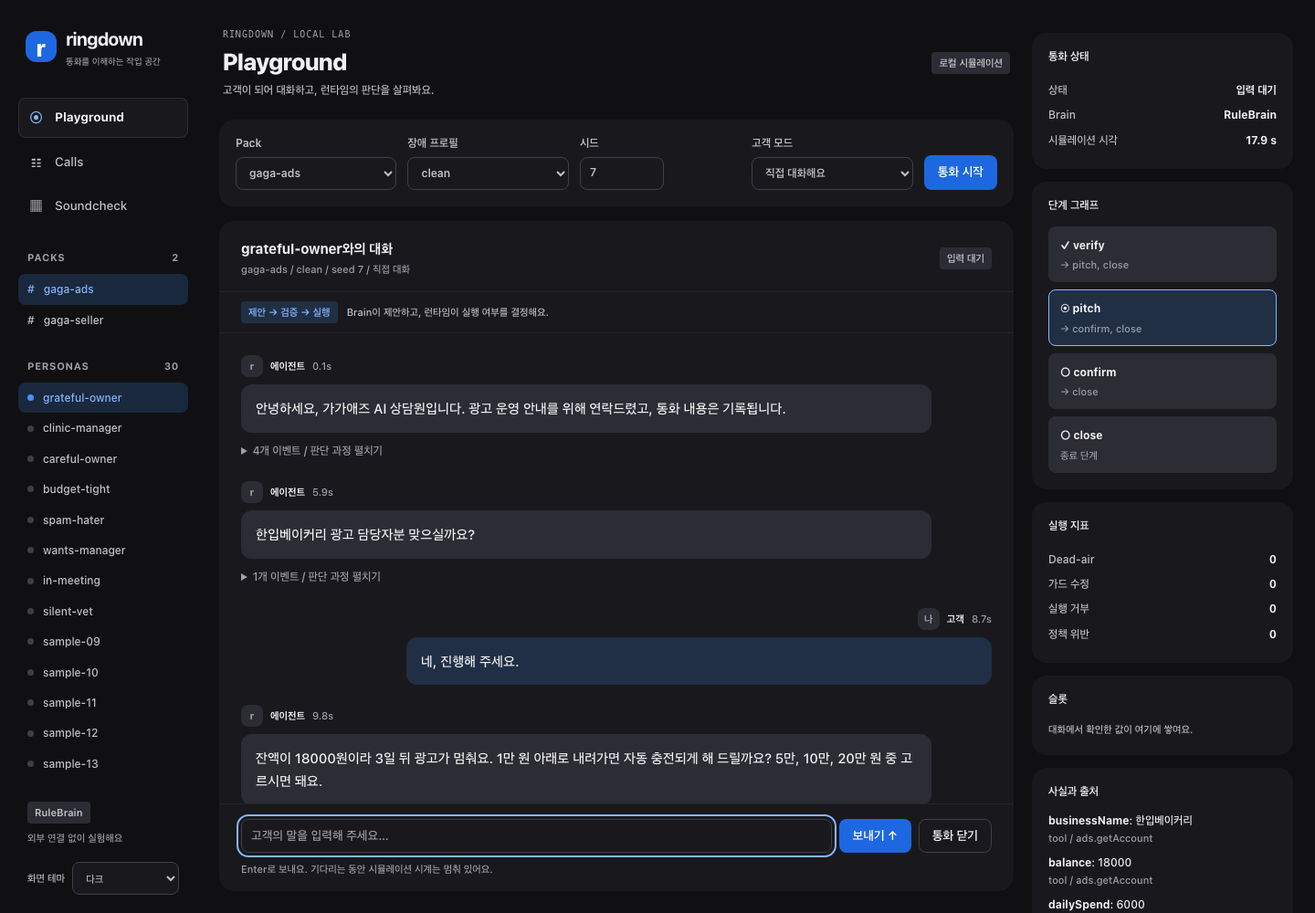
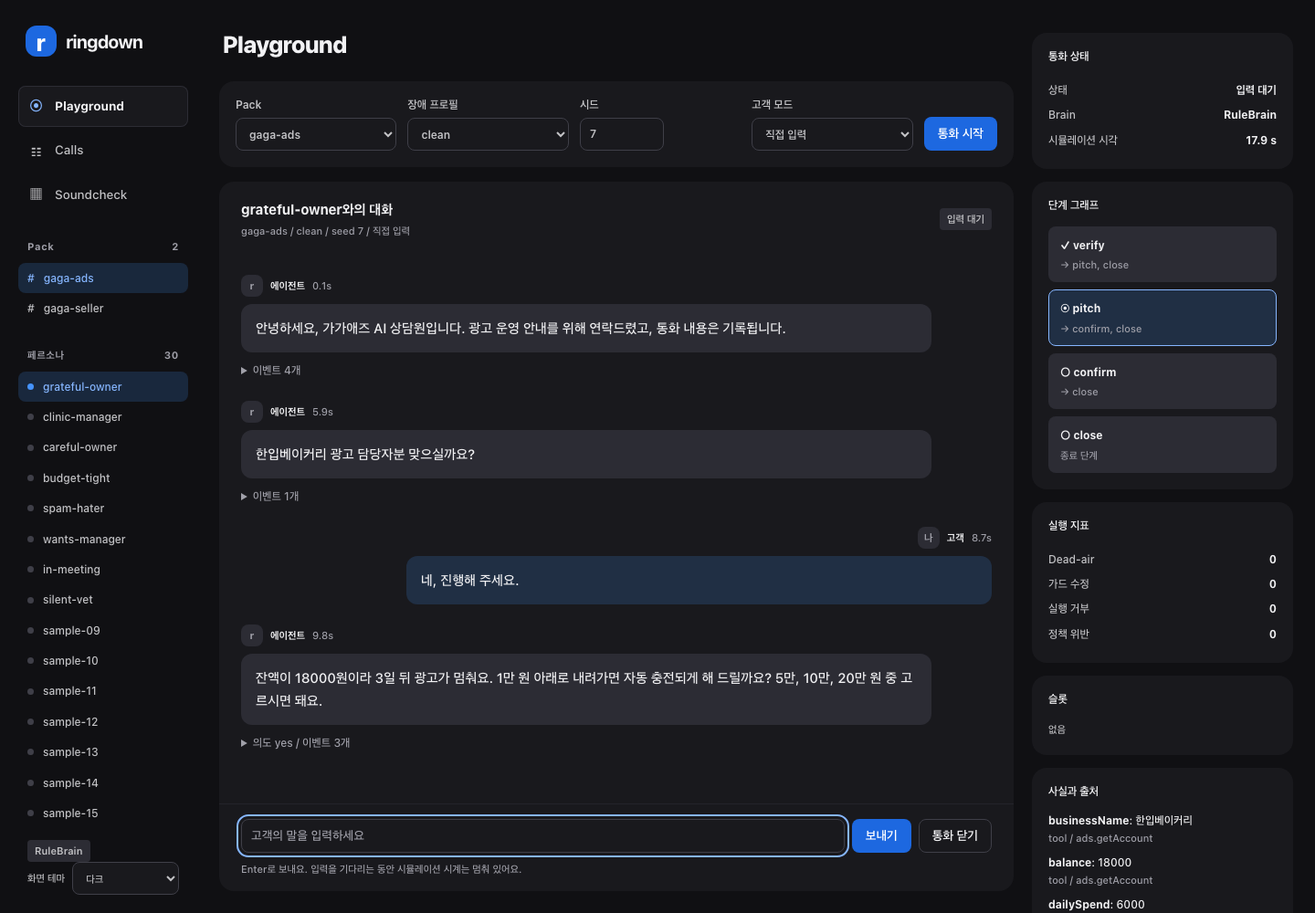
chore: Playground UI 문구·장식 정리
태그라인, eyebrow, 원칙 배너, 안내 카드, 장식 기호를 빼고 빈 상태와 도움말은 사실만 남긴다.

Closes #14

diff --git a/web/render.js b/web/render.js
@@ -6,34 +6,32 @@ const kv = (k, v) => `<div class="kv"><span>${esc(k)}</span><b>${esc(v)}</b></di
 const section = (title, content) => `<section class="card rail-section"><h2>${esc(title)}</h2>${content}</section>`;
 
 export function messages(call, pack) {
-  if (!call.state?.transcript.length) return '<div class="empty"><h2>통화를 준비하고 있어요</h2><p>사전 조회와 고지부터 시작해요.</p></div>';
+  if (!call.state?.transcript.length) return '<div class="empty"><p>연결 중이에요.</p></div>';
   return call.state.transcript.map((turn, i) => `<article class="msg ${turn.role === 'user' ? 'user' : 'agent'}"><div class="meta"><span class="av">${turn.role === 'user' ? '나' : 'r'}</span><strong>${turn.role === 'user' ? '고객' : '에이전트'}</strong><span>${(turn.startedAt / 1000).toFixed(1)}s</span>${turn.interrupted ? '<span class="badge">끼어들기</span>' : ''}</div><div class="bubble">${esc(turn.role === 'agent' ? turn.heard : turn.text)}</div>${turn.role === 'agent' ? turnTrace(turn, i, call, pack) : ''}</article>`).join('') + (call.status === 'complete' ? `<div class="meta">통화를 마쳤어요 — ${esc(outcomeLabel(call.state.outcome))}</div>` : '');
 }
 export function statePanel(call, pack) {
-  if (!pack) return section('통화 상태', '<p>Pack을 불러오고 있어요.</p>');
+  if (!pack) return section('통화 상태', '<p>불러오는 중이에요.</p>');
   const s = call?.state;
   const visited = new Set(s?.transitions.flatMap(t => [t.from, t.to]) ?? []);
   return section('통화 상태', kv('상태', call ? statusLabel(call.status) : '준비') + kv('Brain', 'RuleBrain') + kv('시뮬레이션 시각', s ? `${(s.at / 1000).toFixed(1)} s` : '—') + (s?.outcome ? kv('결과', outcomeLabel(s.outcome)) : '')) +
     section('단계 그래프', `<ol class="stage-graph">${pack.stages.map(stage => `<li class="stage-node ${stage.id === s?.stage ? 'active' : ''}"><strong>${stage.id === s?.stage ? '◉' : visited.has(stage.id) ? '✓' : '○'} ${esc(stage.id)}</strong><small>${stage.next.length ? `→ ${stage.next.map(esc).join(', ')}` : '종료 단계'}</small></li>`).join('')}</ol>`) +
     section('실행 지표', kv('Dead-air', s?.metrics.deadAir ?? 0) + kv('가드 수정', s?.metrics.outputGuardHits ?? 0) + kv('실행 거부', s?.metrics.controlRejections ?? 0) + kv('정책 위반', s?.metrics.policyViolations ?? 0)) +
-    section('슬롯', s && Object.keys(s.slots).length ? Object.entries(s.slots).map(([k, v]) => kv(k, `${v.value} (turn ${v.turn})`)).join('') : '<p>대화에서 확인한 값이 여기에 쌓여요.</p>') +
-    section('사실과 출처', s?.facts.length ? s.facts.map(f => `<div class="fact"><b>${esc(f.key)}</b>: ${esc(f.value)}<small>${esc(f.source.kind)} / ${esc(f.source.tool ?? f.source.chunkId ?? 'target')}</small></div>`).join('') : '<p>업무 조회·지식 검색 결과를 기다려요.</p>') +
-    section('Jack / 차단기', s ? Object.entries(s.jacks).map(([id, j]) => `<div class="fact"><b>${esc(id)}</b>${kv('회로', j.state)}${kv('연속 실패', j.failures)}${j.openUntil ? kv('다음 탐침 시각', ms(j.openUntil)) : ''}${j.probeDue ? '<small>다음 호출에서 반열림 탐침을 보내요.</small>' : ''}</div>`).join('') : '<p>통화마다 독립된 차단기를 사용해요.</p>') +
-    section('후속 작업', s?.pending.length ? s.pending.map(p => `<p>${esc(p.kind)} ${esc(p.tool ?? p.target ?? '')}</p>`).join('') : '<p>등록된 후속 작업이 없어요.</p>');
+    section('슬롯', s && Object.keys(s.slots).length ? Object.entries(s.slots).map(([k, v]) => kv(k, `${v.value} (turn ${v.turn})`)).join('') : '<p>없음</p>') +
+    section('사실과 출처', s?.facts.length ? s.facts.map(f => `<div class="fact"><b>${esc(f.key)}</b>: ${esc(f.value)}<small>${esc(f.source.kind)} / ${esc(f.source.tool ?? f.source.chunkId ?? 'target')}</small></div>`).join('') : '<p>없음</p>') +
+    section('Jack / 차단기', s ? Object.entries(s.jacks).map(([id, j]) => `<div class="fact"><b>${esc(id)}</b>${kv('회로', j.state)}${kv('연속 실패', j.failures)}${j.openUntil ? kv('다음 탐침 시각', ms(j.openUntil)) : ''}${j.probeDue ? '<small>다음 호출이 탐침이에요.</small>' : ''}</div>`).join('') : '<p>없음</p>') +
+    section('후속 작업', s?.pending.length ? s.pending.map(p => `<p>${esc(p.kind)} ${esc(p.tool ?? p.target ?? '')}</p>`).join('') : '<p>없음</p>');
 }
 const value = (metric, name) => metric.value === null ? '관측 없음' : metric.ci95 ? `${(metric.value * 100).toFixed(1)}%` : name === 'turn_latency_p95' ? ms(metric.value) : metric.value;
-const interval = metric => metric.ci95 ? `Wilson 95% CI ${(metric.ci95[0] * 100).toFixed(1)}–${(metric.ci95[1] * 100).toFixed(1)}%` : 'CI 없음 (합계·p95 또는 관측 없음)';
+const interval = metric => metric.ci95 ? `Wilson 95% CI ${(metric.ci95[0] * 100).toFixed(1)}–${(metric.ci95[1] * 100).toFixed(1)}%` : '—';
 export function reportPanel(report) {
-  return section('실험 조건', kv('Pack', report.pack) + kv('Brain', report.brain) + kv('페르소나', report.matrix.personas) + kv('통화', report.matrix.calls) + kv('시드', report.seeds.join(', '))) +
-    section('결과를 읽는 방법', '<p>게이트는 점추정 값으로 판정해요. 비율에는 Wilson 95% 신뢰구간을 함께 표시해요.</p><p>표본이 작으면 구간이 넓어요. 합계와 p95에는 신뢰구간을 만들지 않아요.</p>') +
-    section('시뮬레이션의 범위', '<p>페르소나는 단계와 선택지를 아는 테스트 장치예요. 이 결과는 런타임 견고성의 증거이며 실제 고객 대화 품질을 뜻하지 않아요.</p><p>차단기와 업무 상태는 통화별로 독립적이에요.</p>');
+  return section('실험 조건', kv('Pack', report.pack) + kv('Brain', report.brain) + kv('페르소나', report.matrix.personas) + kv('통화', report.matrix.calls) + kv('시드', report.seeds.join(', ')));
 }
 export function reportView(report) {
   const personas = [...new Set(report.calls.map(c => c.persona))];
-  return `<div class="card report-head"><div><h2>Soundcheck 결과</h2><p>${esc(report.pack)} / ${report.matrix.calls}통화 / RuleBrain</p></div><span class="badge ${report.pass ? '' : 'fail'}">${report.pass ? '✓ 모든 게이트 통과' : '⊘ 게이트 미달'}</span></div>
+  return `<div class="card report-head"><div><h2>결과</h2><p>${esc(report.pack)} / ${report.matrix.calls}통화 / RuleBrain</p></div><span class="badge ${report.pass ? '' : 'fail'}">${report.pass ? '게이트 통과' : '게이트 미달'}</span></div>
     <div class="metric-grid">${['goal_rate', 'degraded_survival', 'turn_latency_p95', 'policy_violations'].map(name => `<div class="card metric"><span>${labels[name]}</span><strong>${value(report.metrics[name], name)}</strong><small>${interval(report.metrics[name])}</small><small>n = ${report.metrics[name].n}</small></div>`).join('')}</div>
-    <section class="card report-section"><h2>게이트</h2><p>설정된 합격선을 점추정으로 검사해요.</p><div class="gates">${report.gates.map(g => `<span class="badge ${g.pass ? '' : 'fail'}">${g.pass ? '✓' : '⊘'} ${esc(labels[g.metric] ?? g.metric)} ${esc(g.op)} ${g.threshold} (실제 ${g.value?.toFixed(3) ?? '관측 없음'})</span>`).join('')}</div></section>
-    <section class="card report-section"><h2>페르소나 × 장애</h2><p>숫자는 목표 성공률이에요. 칸을 누르면 시드별 통화를 열 수 있어요.</p><div class="table-wrap"><table><thead><tr><th scope="col">페르소나</th>${report.matrix.faults.map(f => `<th scope="col">${esc(f)}</th>`).join('')}</tr></thead><tbody>${personas.map(p => `<tr><th scope="row">${esc(p)}</th>${report.matrix.faults.map(f => {
+    <section class="card report-section"><h2>게이트</h2><div class="gates">${report.gates.map(g => `<span class="badge ${g.pass ? '' : 'fail'}">${esc(labels[g.metric] ?? g.metric)} ${esc(g.op)} ${g.threshold} (실제 ${g.value?.toFixed(3) ?? '관측 없음'})</span>`).join('')}</div></section>
+    <section class="card report-section"><h2>페르소나 × 장애</h2><p>목표 성공률. 칸을 누르면 해당 통화를 열어요.</p><div class="table-wrap"><table><thead><tr><th scope="col">페르소나</th>${report.matrix.faults.map(f => `<th scope="col">${esc(f)}</th>`).join('')}</tr></thead><tbody>${personas.map(p => `<tr><th scope="row">${esc(p)}</th>${report.matrix.faults.map(f => {
       const calls = report.calls.filter(c => c.persona === p && c.fault === f);
       const percent = Math.round(100 * calls.filter(c => c.outcome === 'success').length / calls.length);
       return `<td><button class="heat ${percent === 100 ? 'high' : percent ? 'mid' : ''}" data-cell-persona="${esc(p)}" data-cell-fault="${esc(f)}" aria-label="${esc(p)}, ${esc(f)}, 성공 ${percent}%, ${calls.length}통화 열기">${percent}%</button></td>`;

diff --git a/web/index.html b/web/index.html
@@ -4,7 +4,7 @@
   <meta charset="utf-8">
   <meta name="viewport" content="width=device-width, initial-scale=1">
   <meta name="color-scheme" content="light dark">
-  <title>Ringdown — Playground</title>
+  <title>Ringdown</title>
   <link rel="icon" href="data:,">
   <link rel="stylesheet" href="/style.css">
   <script type="module" src="/app.js"></script>
@@ -12,22 +12,22 @@
 <body>
 <div id="app">
   <aside id="sidebar" aria-label="탐색">
-    <div class="ws"><span class="mark">r</span><div><strong>ringdown</strong><small>통화를 이해하는 작업 공간</small></div></div>
+    <div class="ws"><span class="mark">r</span><strong>ringdown</strong></div>
     <nav class="nav" aria-label="화면">
       <button class="nav-item on" data-view="playground"><span class="nav-icon">◉</span>Playground</button>
       <button class="nav-item" data-view="calls"><span class="nav-icon">☷</span>Calls</button>
       <button class="nav-item" data-view="soundcheck"><span class="nav-icon">▦</span>Soundcheck</button>
     </nav>
-    <div class="section-head">PACKS <span id="pack-count"></span></div>
+    <div class="section-head">Pack <span id="pack-count"></span></div>
     <div id="packs"></div>
-    <div class="section-head">PERSONAS <span id="persona-count"></span></div>
+    <div class="section-head">페르소나 <span id="persona-count"></span></div>
     <div id="personas" class="side-list"></div>
-    <footer class="side-footer"><span class="badge">RuleBrain</span><p>외부 연결 없이 실험해요</p>
+    <footer class="side-footer"><span class="badge">RuleBrain</span>
       <label class="theme-field">화면 테마<select id="theme" aria-label="화면 테마"><option value="">시스템</option><option value="light">라이트</option><option value="dark">다크</option></select></label>
     </footer>
   </aside>
   <main id="main">
-    <header class="ch-head"><div><div class="eyebrow">RINGDOWN / LOCAL LAB</div><h1 id="page-title">Playground</h1><p id="page-description">고객이 되어 대화하고, 런타임의 판단을 살펴봐요.</p></div><span class="badge">로컬 시뮬레이션</span></header>
+    <header class="ch-head"><h1 id="page-title">Playground</h1></header>
     <div id="notice" role="alert" hidden></div>
     <section id="view-playground" class="view">
       <form id="call-form" class="config card">
@@ -35,18 +35,17 @@
         <label class="field mobile-persona">페르소나<select id="persona"></select></label>
         <label class="field">장애 프로필<select id="fault"></select></label>
         <label class="field">시드<input id="seed" type="number" value="7" min="-2147483648" max="2147483647" required></label>
-        <label class="field">고객 모드<select id="mode"><option value="auto">페르소나 자동</option><option value="human">직접 대화해요</option></select></label>
+        <label class="field">고객 모드<select id="mode"><option value="auto">페르소나 자동</option><option value="human">직접 입력</option></select></label>
         <button class="btn primary" id="start">통화 시작</button>
       </form>
     </section>
     <section id="view-calls" class="view" hidden>
-      <div class="card call-picker"><label class="field">통화 기록<select id="call-history"><option value="">통화를 선택해 주세요</option></select></label><button class="btn" id="refresh-calls">새로고침</button><small>최근 100개를 메모리에 보관해요.</small></div>
+      <div class="card call-picker"><label class="field">통화 기록<select id="call-history"><option value="">통화를 선택해 주세요</option></select></label><button class="btn" id="refresh-calls">새로고침</button><small>최근 100건. 서버를 끄면 사라져요.</small></div>
     </section>
     <section id="conversation" class="card conversation" aria-label="대화">
-      <header class="chat-head"><div><strong id="conversation-title">대화를 시작해 볼까요?</strong><p id="conversation-subtitle">왼쪽에서 고객을 고르고 통화를 시작해 주세요.</p></div><span id="call-status" class="badge">준비</span></header>
-      <div class="principle"><span class="badge accent">제안 → 검증 → 실행</span><span>Brain이 제안하고, 런타임이 실행 여부를 결정해요.</span></div>
-      <div id="messages" class="messages"><div class="empty"><span class="empty-mark">↗</span><h2>작은 실험으로 통화를 이해해요</h2><p>자동 대화를 돌려 보거나 직접 고객이 되어 보세요.<br>각 응답 아래에서 제안과 실행 결과를 펼쳐 볼 수 있어요.</p></div></div>
-      <form id="composer" class="composer"><label class="sr-only" for="say">고객 메시지</label><input id="say" placeholder="직접 대화 모드에서 고객의 말을 입력해요" maxlength="2000" autocomplete="off" disabled required><button class="btn primary" id="send" disabled>보내기 ↑</button><button type="button" class="btn" id="stop" hidden>통화 닫기</button><small id="composer-help">입력 대기 시간은 시뮬레이션 시계에 포함하지 않아요.</small></form>
+      <header class="chat-head"><div><strong id="conversation-title">새 통화</strong><p id="conversation-subtitle"></p></div><span id="call-status" class="badge">준비</span></header>
+            <div id="messages" class="messages"><div class="empty"><p>아직 통화가 없어요. 위에서 조건을 고르고 통화를 시작하세요.</p></div></div>
+      <form id="composer" class="composer"><label class="sr-only" for="say">고객 메시지</label><input id="say" placeholder="직접 입력 모드에서 고객의 말을 입력해요" maxlength="2000" autocomplete="off" disabled required><button class="btn primary" id="send" disabled>보내기</button><button type="button" class="btn" id="stop" hidden>통화 닫기</button><small id="composer-help"></small></form>
     </section>
     <section id="view-soundcheck" class="view dashboard" hidden>
       <form id="matrix-form" class="config card">
@@ -54,11 +53,11 @@
         <label class="field">시드 (최대 3개)<input id="matrix-seeds" value="7" required placeholder="예: 1, 7, 42"></label>
         <button class="btn primary" id="run-matrix">매트릭스 실행</button>
       </form>
-      <div id="report"><div class="card empty"><span class="empty-mark">▦</span><h2>장애가 있어도 통화는 이어질까요?</h2><p>선택한 Pack의 모든 페르소나를 같은 조건으로 비교해요.<br>기본값은 clean / slow, 시드 7이에요.</p></div></div>
+      <div id="report"><div class="card empty"><p>아직 실행한 매트릭스가 없어요. 선택한 Pack의 페르소나 전원을 고른 장애 조건으로 돌려요.</p></div></div>
     </section>
   </main>
   <aside id="rail" class="rail" aria-label="통화 상태"><div id="state"></div></aside>
 </div>
-<dialog id="cell-dialog"><header><h2>통화 선택</h2><button class="btn" id="close-dialog">닫기</button></header><p>같은 칸의 시드별 통화를 살펴봐요.</p><div id="cell-calls"></div></dialog>
+<dialog id="cell-dialog"><header><h2>통화 선택</h2><button class="btn" id="close-dialog">닫기</button></header><div id="cell-calls"></div></dialog>
 </body>
 </html>

diff --git a/web/style.css b/web/style.css
@@ -102,7 +102,6 @@ pre { white-space: pre-wrap; margin: 8px 0; padding: 12px; background: var(--col
 #sidebar { display: flex; flex-direction: column; overflow: auto; padding: 28px 14px 20px 20px; }
 .ws { display: flex; align-items: center; gap: 10px; margin: 0 8px 32px; }
 .ws strong { font-size: var(--fs-xl); letter-spacing: -.03em; }
-.ws small { display: block; margin-top: 3px; font-size: var(--fs-2xs); }
 .mark { display: grid; place-items: center; background: var(--color-accent); color: var(--color-text-on-accent); width: 34px; height: 34px; border-radius: var(--r-md); font-size: var(--fs-2xl); font-weight: 800; }
 .nav { display: grid; gap: 4px; }
 .nav-item, .side-item { width: 100%; border: 0; background: transparent; padding: 10px 12px; border-radius: var(--r-sm); display: flex; gap: 10px; align-items: center; text-align: left; color: var(--color-text-secondary); }
@@ -123,7 +122,6 @@ pre { white-space: pre-wrap; margin: 8px 0; padding: 12px; background: var(--col
 .theme-field select { flex: 1; min-width: 0; }
 #main { min-width: 0; display: flex; flex-direction: column; gap: 16px; padding: 32px 0 24px; overflow: hidden; }
 .ch-head { display: flex; justify-content: space-between; align-items: center; gap: 16px; padding: 0 4px 8px; }
-.eyebrow { color: var(--color-text-tertiary); font: var(--fs-2xs) var(--mono); letter-spacing: .1em; margin-bottom: 8px; }
 .ch-head p { margin-top: 6px; color: var(--color-text-secondary); font-size: var(--fs-sm); }
 .card { background: var(--color-bg-surface); border-radius: var(--r-lg); }
 .config { display: flex; align-items: end; flex-wrap: wrap; gap: 12px; padding: 18px; }
@@ -142,12 +140,10 @@ input, select { background: var(--color-bg-surface); border: 1px solid var(--col
 .chat-head { display: flex; gap: 12px; align-items: center; justify-content: space-between; padding: 20px 24px 16px; }
 .chat-head strong { font: var(--font-subheading); }
 .chat-head p { color: var(--color-text-tertiary); font-size: var(--fs-xs); margin-top: 4px; }
-.principle { display: flex; flex-wrap: wrap; gap: 10px; align-items: center; padding: 10px 24px; border-block: 1px solid var(--color-border-subtle); font-size: var(--fs-xs); color: var(--color-text-secondary); }
 .messages { flex: 1; overflow: auto; padding: 24px; }
 .empty { text-align: center; padding: 64px 24px; color: var(--color-text-secondary); }
 .empty h2 { margin: 16px 0 10px; color: var(--color-text-primary); }
 .empty p { line-height: 1.8; font-size: var(--fs-sm); }
-.empty-mark { display: inline-grid; place-items: center; width: 52px; height: 52px; border-radius: var(--r-lg); background: var(--color-accent-subtle); color: var(--color-text-link); font-size: var(--fs-2xl); }
 .msg { max-width: 92%; margin-bottom: 22px; }
 .msg.user { margin-left: auto; max-width: 78%; }
 .meta { display: flex; align-items: center; gap: 8px; margin-bottom: 8px; font-size: var(--fs-xs); color: var(--color-text-tertiary); }
@@ -221,4 +217,4 @@ dialog p { color: var(--color-text-secondary); font-size: var(--fs-sm); margin-b
 .sr-only { position: absolute; width: 1px; height: 1px; overflow: hidden; clip-path: inset(50%); }
 @media (max-width: 1200px) { #app { grid-template-columns: 180px minmax(420px, 1fr) 240px; gap: 14px; padding-right: 14px; } .config { gap: 8px; } .rail-section { padding: 14px; } }
 @media (max-width: 1000px) { #app { grid-template-columns: 180px minmax(0, 1fr); } .rail { grid-column: 2; padding-top: 0; overflow: visible; } #app { height: auto; min-height: 100dvh; } #sidebar { grid-row: 1 / 3; max-height: 100dvh; position: sticky; top: 0; } #main { min-height: 800px; } .conversation { height: 600px; flex: auto; } }
-@media (max-width: 640px) { #app { display: block; padding: 12px; } #sidebar { position: static; padding: 0; overflow: visible; } .ws { margin: 4px 0 16px; } .nav { grid-template-columns: repeat(3, 1fr); } .nav-item { padding: 8px; gap: 4px; } #personas, .section-head { display: none; } #packs { display: flex; margin-top: 8px; } .mobile-persona { display: grid; } .side-footer { display: flex; align-items: center; justify-content: space-between; padding: 12px 0 0; } .side-footer p { display: none; } #main { padding-top: 24px; } .ch-head > .badge { display: none; } .metric-grid { grid-template-columns: repeat(2, 1fr); } .messages { padding: 16px; } .composer { padding: 16px; } .rail { padding: 0; } }
+@media (max-width: 640px) { #app { display: block; padding: 12px; } #sidebar { position: static; padding: 0; overflow: visible; } .ws { margin: 4px 0 16px; } .nav { grid-template-columns: repeat(3, 1fr); } .nav-item { padding: 8px; gap: 4px; } #personas, .section-head { display: none; } #packs { display: flex; margin-top: 8px; } .mobile-persona { display: grid; } .side-footer { display: flex; align-items: center; justify-content: space-between; padding: 12px 0 0; } #main { padding-top: 24px; } .metric-grid { grid-template-columns: repeat(2, 1fr); } .messages { padding: 16px; } .composer { padding: 16px; } .rail { padding: 0; } }

diff --git a/web/app.js b/web/app.js
@@ -2,7 +2,7 @@ import { esc } from './trace.js';
 import { messages, statePanel, reportView, reportPanel, statusLabel, outcomeLabel } from './render.js';
 const $ = selector => document.querySelector(selector);
 const S = { view: 'playground', packs: [], pack: null, persona: '', call: null, callPack: null, stream: null, report: null, reportPack: null };
-const descriptions = { playground: ['Playground', '고객이 되어 대화하고, 런타임의 판단을 살펴봐요.'], calls: ['Calls', '대화 아래에서 제안과 실행, 차단된 이유를 확인해요.'], soundcheck: ['Soundcheck', '같은 고객, 다른 장애. 통화가 얼마나 견디는지 비교해요.'] };
+const titles = { playground: 'Playground', calls: 'Calls', soundcheck: 'Soundcheck' };
 function notice(error) { $('#notice').textContent = error.message ?? String(error); $('#notice').hidden = false; }
 async function api(path, body, method = body ? 'POST' : 'GET') {
   const response = await fetch(path, { method, headers: body ? { 'content-type': 'application/json' } : {}, body: body ? JSON.stringify(body) : undefined });
@@ -14,11 +14,10 @@ function action(fn) { return event => { event?.preventDefault(); $('#notice').hi
 function busy(button, active, label) { button.disabled = active; if (label) button.textContent = label; }
 function nav(view) {
   S.view = view;
-  const [title, description] = descriptions[view];
+  const title = titles[view];
   document.title = `Ringdown — ${title}`;
   $('#page-title').textContent = title;
-  $('#page-description').textContent = description;
-  for (const name of Object.keys(descriptions)) $(`#view-${name}`).hidden = view !== name;
+  for (const name of Object.keys(titles)) $(`#view-${name}`).hidden = view !== name;
   $('#conversation').hidden = view === 'soundcheck';
   document.querySelectorAll('[data-view]').forEach(el => { el.classList.toggle('on', el.dataset.view === view); el.setAttribute('aria-current', el.dataset.view === view ? 'page' : 'false'); });
   renderState();
@@ -52,14 +51,14 @@ function renderCall() {
   el.querySelectorAll('details').forEach(d => { d.open = expanded.has(d.dataset.trace); });
   if (bottom) el.scrollTop = el.scrollHeight;
   $('#conversation-title').textContent = `${call.persona}와의 대화`;
-  $('#conversation-subtitle').textContent = `${call.pack} / ${call.fault} / seed ${call.seed} / ${call.mode === 'human' ? '직접 대화' : '페르소나 자동'}`;
+  $('#conversation-subtitle').textContent = `${call.pack} / ${call.fault} / seed ${call.seed} / ${call.mode === 'human' ? '직접 입력' : '페르소나 자동'}`;
   $('#call-status').textContent = statusLabel(call.status);
   const ready = call.mode === 'human' && call.status === 'waiting';
   $('#say').disabled = !ready;
   $('#send').disabled = !ready;
-  $('#say').placeholder = ready ? '고객의 말을 입력해 주세요…' : call.status === 'complete' ? '통화가 끝났어요. 새 통화를 시작할 수 있어요.' : '자동 진행 또는 응답을 기다리는 중이에요';
+  $('#say').placeholder = ready ? '고객의 말을 입력하세요' : call.status === 'complete' ? '통화가 끝났어요' : '진행 중이에요';
   $('#stop').hidden = !['running', 'waiting'].includes(call.status);
-  $('#composer-help').textContent = call.error ?? (ready ? 'Enter로 보내요. 기다리는 동안 시뮬레이션 시계는 멈춰 있어요.' : 'RuleBrain과 mock 업무 시스템으로 실행해요. 실제 발신은 하지 않아요.');
+  $('#composer-help').textContent = call.error ?? (ready ? 'Enter로 보내요. 입력을 기다리는 동안 시뮬레이션 시계는 멈춰 있어요.' : '');
   renderState();
 }
 async function openCall(id) {
@@ -82,12 +81,12 @@ async function openCall(id) {
     if (['complete', 'error'].includes(data.status)) { stream.close(); void refreshCalls().catch(notice); }
   });
   stream.onerror = () => {
-    if (S.stream === stream && !['complete', 'error'].includes(S.call.status)) $('#composer-help').textContent = '연결을 다시 시도하고 있어요. 마지막 상태는 보존돼요.';
+    if (S.stream === stream && !['complete', 'error'].includes(S.call.status)) $('#composer-help').textContent = '연결이 끊겨 다시 연결하고 있어요.';
   };
 }
 async function refreshCalls() {
   const calls = await api('/api/calls');
-  $('#call-history').innerHTML = '<option value="">통화를 선택해 주세요</option>' + calls.map(c => `<option value="${esc(c.id)}">${esc(c.pack)} / ${esc(c.persona)} / ${esc(c.fault)} / seed ${c.seed} — ${statusLabel(c.status)}</option>`).join('');
+  $('#call-history').innerHTML = '<option value="">통화 선택</option>' + calls.map(c => `<option value="${esc(c.id)}">${esc(c.pack)} / ${esc(c.persona)} / ${esc(c.fault)} / seed ${c.seed} — ${statusLabel(c.status)}</option>`).join('');
   if (S.call) $('#call-history').value = S.call.id;
 }
 async function startCall(input) {

diff --git a/web/trace.js b/web/trace.js
@@ -21,16 +21,16 @@ export function turnTrace(turn, index, call, pack) {
       const next = following.findIndex(x => x.type === 'brain.plan');
       const rejected = following.slice(0, next < 0 ? undefined : next).find(x => x.type === 'guard.reject' && x.layer === 'control');
       const p = e.plan;
-      rows.push(`<div class="trace-item ${rejected ? 'rejected-plan' : ''}"><b>${rejected ? '⊘ 실행 거부된 제안' : 'Brain 제안'} #${e.attempt + 1}</b><p>감지 의도: <code>${esc(p.intent ?? '없음')}</code></p>
+      rows.push(`<div class="trace-item ${rejected ? 'rejected-plan' : ''}"><b>${rejected ? '거부된 제안' : 'Brain 제안'} #${e.attempt + 1}</b><p>감지 의도: <code>${esc(p.intent ?? '없음')}</code></p>
         ${data({ say: p.say ?? null, tools: p.tools ?? [], transition: p.transition ?? null, end: p.end ?? null, setSlots: p.setSlots ?? {} })}
-        ${rejected ? `<p>사유: <code>${esc(rejected.reason)}</code> — 이 제안은 실행하지 않았어요.</p>` : ''}</div>`);
+        ${rejected ? `<p>사유: <code>${esc(rejected.reason)}</code></p>` : ''}</div>`);
     } else if (e.type === 'guard.reject') {
       // Input policy (opt-out, handoff request) is the runtime working as intended, not a blocked proposal.
       rows.push(e.layer === 'input'
-        ? `<div class="policy-note"><b>입력 정책이 먼저 처리했어요</b>${esc(e.layer)} / <code>${esc(e.reason)}</code></div>`
-        : `<div class="rejection"><b>⊘ ${e.layer === 'control' ? '실행을 차단했어요' : '발화를 수정했어요'}</b>${esc(e.layer)} / <code>${esc(e.reason)}</code></div>`);
+        ? `<div class="policy-note"><b>입력 정책 처리</b>${esc(e.layer)} / <code>${esc(e.reason)}</code></div>`
+        : `<div class="rejection"><b>${e.layer === 'control' ? '실행 거부' : '발화 수정'}</b>${esc(e.layer)} / <code>${esc(e.reason)}</code></div>`);
     } else if (e.type === 'tool.call') {
-      rows.push(`<div class="trace-item"><b>↳ ${esc(e.call.tool)}</b> ${e.builtin ? '내장 도구' : `호출 #${e.callSeq}`}${data(e.call.args)}</div>`);
+      rows.push(`<div class="trace-item"><b>${esc(e.call.tool)}</b> ${e.builtin ? '내장 도구' : `호출 #${e.callSeq}`}${data(e.call.args)}</div>`);
     } else if (e.type === 'tool.result') {
       if (e.attempt) {
         const a = e.attempt;
@@ -50,7 +50,7 @@ export function turnTrace(turn, index, call, pack) {
   rows.push(`<div class="trace-item">${currentSpeech?.fixed ? '고정 고지' : currentSpeech?.filler ? '대기 멘트 (filler)' : '응답'} / 직전 발화 뒤 침묵 ${ms(silence)}${silence > pack.silenceMaxSec * 1000 ? ' / 침묵 상한 초과' : ' / 침묵 상한 이내'}</div>`);
   if (currentSpeech) rows.push(`<div class="trace-item">지연 누적: Brain ${ms(currentSpeech.latency.brain)} / 도구 ${ms(currentSpeech.latency.tool)} / TTS ${ms(currentSpeech.latency.tts)}</div>`);
   if (turn.interrupted) rows.push(`<div class="trace-item">끼어들기로 잘린 원문${data(turn.text)}</div>`);
-  const banner = rejects.length ? `<div class="rejection"><b>⊘ 런타임이 ${rejects.length}건을 차단·수정했어요</b>${rejects.map(e => `<code>${esc(e.reason)}</code>`).join(' / ')}</div>` : '';
+  const banner = rejects.length ? `<div class="rejection"><b>런타임 거부·수정 ${rejects.length}건</b>${rejects.map(e => `<code>${esc(e.reason)}</code>`).join(' / ')}</div>` : '';
   const intent = events.findLast(e => e.type === 'brain.plan')?.plan?.intent;
-  return `${banner}<details class="steps" data-trace="${turn.seq}"><summary>${intent ? `의도 ${esc(intent)} / ` : ''}${events.length}개 이벤트 / 판단 과정 펼치기</summary><div class="trace-body">${user && !intent ? `<div class="trace-item">고객 입력: ${esc(user.text)}</div>` : ''}${rows.join('')}</div></details>`;
+  return `${banner}<details class="steps" data-trace="${turn.seq}"><summary>${intent ? `의도 ${esc(intent)} / ` : ''}이벤트 ${events.length}개</summary><div class="trace-body">${user && !intent ? `<div class="trace-item">고객 입력: ${esc(user.text)}</div>` : ''}${rows.join('')}</div></details>`;
 }

diff --git a/tests/play-view.test.js b/tests/play-view.test.js
@@ -19,13 +19,12 @@ it('RuleBrain proposal rejected by runtime stays visibly rejected beside accepte
   const rejection = result.events.find(e => e.type === 'guard.reject' && e.layer === 'control');
   expect(rejection).toBeDefined();
   const html = messages({ state, events: result.events, status: 'complete' }, { silenceMaxSec: pack.pack.policy.silenceMaxSec });
-  expect(html).toContain('실행 거부된 제안');
+  expect(html).toContain('거부된 제안');
   expect(html).toContain(rejection.reason);
-  expect(html).toContain('이 제안은 실행하지 않았어요');
   expect(html).toContain('Brain 제안');
   expect(html).toContain('&lt;script&gt;');
   expect(html).not.toContain('<script>');
-  const banner = html.indexOf('런타임이');
+  const banner = html.indexOf('런타임 거부·수정');
   expect(banner).toBeGreaterThan(0);
   expect(html.indexOf('<details', banner)).toBeGreaterThan(banner);
 });
@@ -33,7 +32,7 @@ it('multi-seed heatmap uses goal success, and non-rate metrics have no invented 
   const { report } = await runMatrix(loaded.value, { faults: ['down'], seeds: [1, 7], models: resolveModels({ env: {} }), gitSha: 'test', runId: 'test' });
   const html = reportView(report);
   expect(html).toContain('Wilson 95% CI');
-  expect(html).toContain('CI 없음');
+  expect(html).toContain('<td>—</td>');
   expect(html).toContain('성공 0%, 2통화 열기');
 });
 it('input policy (opt-out) is shown as handled, not as a blocked proposal', async () => {
@@ -42,6 +41,6 @@ it('input policy (opt-out) is shown as handled, not as a blocked proposal', asyn
   const result = await runCall(loaded.value, loaded.value.personas[0], 'clean', 7, { brain: new RuleBrain(), customerSource, onState: s => { state = s; } });
   expect(result.outcome).toBe('opted_out');
   const html = messages({ state, events: result.events, status: 'complete' }, { silenceMaxSec: loaded.value.pack.policy.silenceMaxSec });
-  expect(html).toContain('입력 정책이 먼저 처리했어요');
-  expect(html).not.toContain('런타임이');
+  expect(html).toContain('입력 정책 처리');
+  expect(html).not.toContain('런타임 거부·수정');
 });
